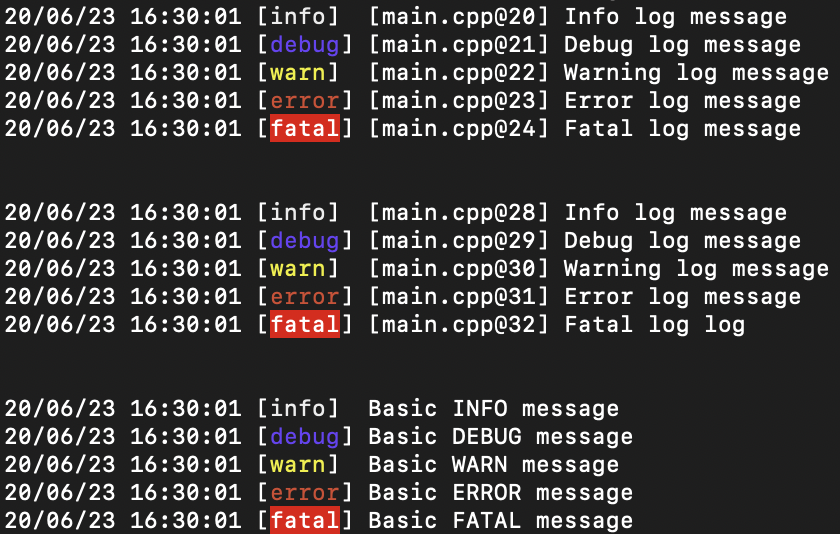
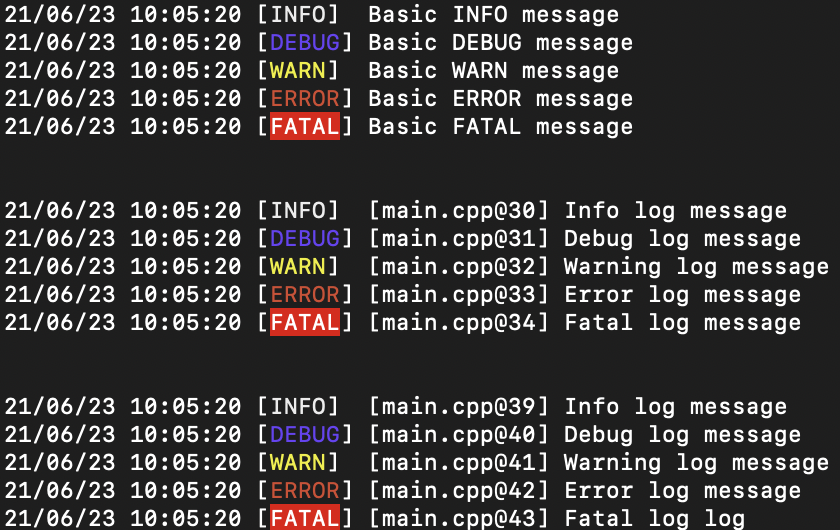
Updated README.md

diff --git a/README.md b/README.md
@@ -30,25 +30,25 @@ int main() {
 ```
 ### Output
 ```
-20/06/23 16:27:08 [info]  [main.cpp@18] Info log message
-20/06/23 16:27:08 [debug] [main.cpp@19] Debug log message
-20/06/23 16:27:08 [warn]  [main.cpp@20] Warning log message
-20/06/23 16:27:08 [error] [main.cpp@21] Error log message
-20/06/23 16:27:08 [fatal] [main.cpp@22] Fatal log message
+21/06/23 10:05:20 [INFO]  Basic INFO message
+21/06/23 10:05:20 [DEBUG] Basic DEBUG message
+21/06/23 10:05:20 [WARN]  Basic WARN message
+21/06/23 10:05:20 [ERROR] Basic ERROR message
+21/06/23 10:05:20 [FATAL] Basic FATAL message
 
 
-20/06/23 16:27:08 [info]  [main.cpp@26] Info log message
-20/06/23 16:27:08 [debug] [main.cpp@27] Debug log message
-20/06/23 16:27:08 [warn]  [main.cpp@28] Warning log message
-20/06/23 16:27:08 [error] [main.cpp@29] Error log message
-20/06/23 16:27:08 [fatal] [main.cpp@30] Fatal log log
+21/06/23 10:05:20 [INFO]  [main.cpp@30] Info log message
+21/06/23 10:05:20 [DEBUG] [main.cpp@31] Debug log message
+21/06/23 10:05:20 [WARN]  [main.cpp@32] Warning log message
+21/06/23 10:05:20 [ERROR] [main.cpp@33] Error log message
+21/06/23 10:05:20 [FATAL] [main.cpp@34] Fatal log message
 
 
-20/06/23 16:27:08 [info]  Basic INFO message
-20/06/23 16:27:08 [debug] Basic DEBUG message
-20/06/23 16:27:08 [warn]  Basic WARN message
-20/06/23 16:27:08 [error] Basic ERROR message
-20/06/23 16:27:08 [fatal] Basic FATAL message
+21/06/23 10:05:20 [INFO]  [main.cpp@39] Info log message
+21/06/23 10:05:20 [DEBUG] [main.cpp@40] Debug log message
+21/06/23 10:05:20 [WARN]  [main.cpp@41] Warning log message
+21/06/23 10:05:20 [ERROR] [main.cpp@42] Error log message
+21/06/23 10:05:20 [FATAL] [main.cpp@43] Fatal log log
 ```
 
 <img src="images/output1.png">
